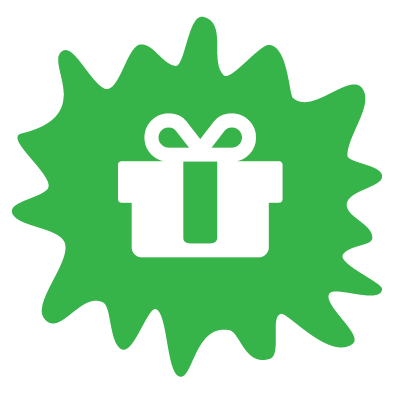
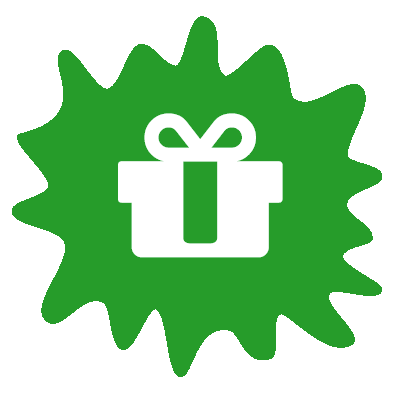
update style to reflect old color aesthetic

diff --git a/style.css b/style.css
@@ -607,11 +607,11 @@ html {
   box-sizing: border-box;
 }
 html a {
-  color: #57bfc4;
+  color: #0b9dff;
   text-decoration: none;
 }
 html a:visited {
-  color: #37b449;
+  color: #269C2A;
 }
 html a:focus {
   color: #ed7e22;
@@ -642,11 +642,11 @@ html a:hover, html a:focus {
 }
 
 .cpSalmon {
-  color: #e56066;
+  color: #ed1a35;
 }
 
 .cpYellow {
-  color: #ffce00;
+  color: #FFE600;
 }
 
 .layout {
@@ -682,6 +682,11 @@ body nav, body main, body footer, body header {
 
 .logoimg {
   height: 10rem;
+}
+
+.site-title img {
+  background-color: rgba(255, 255, 255, 0.75);
+  padding: .5rem;
 }
 
 footer .logoimg {
@@ -1088,32 +1093,32 @@ body footer {
 }
 
 .tribe-events-calendar th {
-  background: #57bfc4 !important;
+  background: #0b9dff !important;
 }
 .tribe-events-calendar th a {
-  color: #e56066;
+  color: #ed1a35;
 }
 .tribe-events-calendar th a:visited {
-  color: #57bfc4;
+  color: #0b9dff;
 }
 .tribe-events-calendar th a:focus {
   color: #0062a4;
 }
 .tribe-events-calendar th a:hover {
-  color: #37b449;
+  color: #269C2A;
 }
 .tribe-events-calendar th a:active {
   color: #825da3;
 }
 
 #tribe-events .tribe-events-button, .tribe-events-button {
-  background: #e56066 !important;
+  background: #ed1a35 !important;
   color: white;
 }
 
 @media screen and (max-width: 768px) {
   .tribe-events-sub-nav li a {
-    background: #37b449 !important;
+    background: #269C2A !important;
   }
 }
 @media screen and (min-width: 900px) {
@@ -1311,7 +1316,7 @@ body > footer ul {
 }
 
 body {
-  background-color: #57bfc4;
+  background-color: #0b9dff;
 }
 
 ul {
@@ -1418,7 +1423,7 @@ main {
 
 /*----------Homepage - Story Section----------- */
 .storyText h2 {
-  color: #57bfc4;
+  color: #0b9dff;
 }
 
 .storyText a:hover {
@@ -1483,7 +1488,7 @@ main {
 
 /*----------Homepage - Get Involved Section----------- */
 .getInvolved {
-  background: #ffeda3;
+  background: #fff6a3;
   margin-top: 1em;
   padding: .5em 1em 1em 1em;
 }
@@ -1557,11 +1562,11 @@ main {
 }
 
 .tribe-mini-calendar thead {
-  background: #57bfc4;
+  background: #0b9dff;
 }
 
 .tribe-mini-calendar-event .list-date {
-  background: #57bfc4 !important;
+  background: #0b9dff !important;
 }
 
 .galleryHome h2 {
@@ -1596,7 +1601,7 @@ main {
 }
 
 #mc_embed_signup.sponsorForm {
-  border: solid 1px #e56066;
+  border: solid 1px #ed1a35;
 }
 
 #mc_embed_signup.contactForm {
@@ -1609,7 +1614,7 @@ main {
 }
 
 #mc_embed_signup.sponsorForm h2 {
-  color: #e56066;
+  color: #ed1a35;
 }
 
 #mc_embed_signup.contactForm h2 {
@@ -1636,7 +1641,7 @@ main {
 }
 
 .sponsorButton {
-  background: #e56066;
+  background: #ed1a35;
   color: white;
   font-family: 'Graduate', sans-serif;
   border: none;
@@ -1651,7 +1656,7 @@ main {
 }
 
 .sponsorButton:hover {
-  background: #de343c;
+  background: #c50f27;
 }
 
 .contactButton {
@@ -1693,13 +1698,13 @@ input {
 }
 
 .giDonate {
-  border-top: solid 1em #37b449;
-  color: #37b449;
+  border-top: solid 1em #269C2A;
+  color: #269C2A;
 }
 
 .giSponsor {
-  border-top: solid 1em #e56066;
-  color: #e56066;
+  border-top: solid 1em #ed1a35;
+  color: #ed1a35;
 }
 
 .giText a:hover {
@@ -1716,7 +1721,7 @@ input {
 }
 
 .greenButton {
-  background: #37b449;
+  background: #269C2A;
   color: white;
   font-family: 'Graduate', sans-serif;
   border: none;
@@ -1730,11 +1735,11 @@ input {
 }
 
 .greenButton:hover {
-  background: #2b8d39;
+  background: #1c731f;
 }
 
 .pinkButton {
-  background: #e56066;
+  background: #ed1a35;
   color: white;
   font-family: 'Graduate', sans-serif;
   border: none;
@@ -1748,7 +1753,7 @@ input {
 }
 
 .pinkButton:hover {
-  background: #de343c;
+  background: #c50f27;
 }
 
 .headsecondary, .headsecondary .layout {
@@ -1780,7 +1785,7 @@ input {
   position: absolute;
   top: 100%;
   left: 0;
-  background: #57bfc4;
+  background: #0b9dff;
   padding: 0;
   padding-top: .5em;
   z-index: 9999;
@@ -1799,4 +1804,28 @@ input {
 }
 .headsecondary .layout div:nth-child(2) ul li:hover ul {
   display: block;
+}
+
+.qpp-style.CalebsPitchDOnate #plain {
+  border: 1px solid #269C2A !important;
+}
+
+.qpp-style.CalebsPitchDOnate h2 {
+  color: #269C2A !important;
+}
+
+.qpp-style.CalebsPitchDOnate p {
+  color: #269C2A !important;
+}
+
+.qpp-style.CalebsPitchDOnate #submit, .qpp-style.CalebsPitchDOnate #submit:hover {
+  background: #269C2A !important;
+}
+
+.qpp-style.CalebsPitchDOnate #couponsubmit, .qpp-style.CalebsPitchDOnate #couponsubmit:hover {
+  background: #269C2A !important;
+}
+
+.qpp-style.CalebsPitchDOnate div.rangeslider__fill {
+  background: #269C2A !important;
 }

diff --git a/components/sass/_variables.scss b/components/sass/_variables.scss
@@ -1,10 +1,15 @@
 //Caleb's Pitch Colors
-$cpYellow: #ffce00;
-$cpSalmon: #e56066;
+// $cpYellow: #ffce00;
+$cpYellow:#FFE600;
+$cpRed: #ed1a35;
+// $cpSalmon: #e56066;
+$cpSalmon:$cpRed;
 $cpOrange: #ed7e22;
 $cpBlue: #0062a4;
-$cpGreen: #37b449;
-$cpTeal: #57bfc4;
+// $cpGreen: #37b449;
+$cpGreen:#269C2A;
+// $cpTeal: #57bfc4;
+$cpTeal: lighten($cpBlue,20%);
 $cpPurple: #825da3;
 $cpWhite: #FFFFFF;
 
@@ -16,7 +21,7 @@ $cSecondary: $cpBlue;
 // $cBlack: #221F24;
 $cWhite: $cpWhite;
 // $cNote: #fcffad; 
-
+$cWhiteFade: rgba(255, 255, 255, 0.75); 
 
 //***************************
 // Where is everything else??

diff --git a/components/sass/_modules.scss b/components/sass/_modules.scss
@@ -546,3 +546,11 @@ main {
   }
 }
 
+//00000000000000000000000000000000000000000000
+.qpp-style.CalebsPitchDOnate #plain {border:1px solid #269C2A !important;}
+.qpp-style.CalebsPitchDOnate h2 {color: #269C2A !important;}.qpp-style.CalebsPitchDOnate p{color: #269C2A !important;}
+
+.qpp-style.CalebsPitchDOnate #submit, .qpp-style.CalebsPitchDOnate #submit:hover {background:#269C2A !important;}
+.qpp-style.CalebsPitchDOnate #couponsubmit, .qpp-style.CalebsPitchDOnate #couponsubmit:hover{background:#269C2A !important;}
+
+.qpp-style.CalebsPitchDOnate div.rangeslider__fill {background: #269C2A !important;}

diff --git a/components/sass/_layout.scss b/components/sass/_layout.scss
@@ -61,10 +61,24 @@ body nav,body main,body footer,body header{
     height: 10rem;
 }
 
+.site-title img{
+  background-color: $cWhiteFade;
+  padding:.5rem;
+
+}
+// .headsecondary{
+//   background-color:$cpBlue;
+// }
+// .siteheader, .sitefooter{
+//   background-color: lighten($cpBlue,30%) !important
+// }
+
+
 footer .logoimg{
     height: 13rem;
 
 }
+
 
 .siteheader{
   background: url("images/heroimagesm.jpg") no-repeat center center;

diff --git a/components/sass/_base.scss b/components/sass/_base.scss
@@ -57,14 +57,14 @@ $susy: (
 );
 
 
-$cpYellow: #ffce00;
-$cpSalmon: #e56066;
-$cpOrange: #ed7e22;
-$cpBlue: #0062a4;
-$cpGreen: #37b449;
-$cpTeal: #57bfc4;
-$cpPurple: #825da3;
-$cpWhite: #FFFFFF;
+// $cpYellow: #ffce00;
+// $cpSalmon: #e56066;
+// $cpOrange: #ed7e22;
+// $cpBlue: #0062a4;
+// $cpGreen: #37b449;
+// $cpTeal: #57bfc4;
+// $cpPurple: #825da3;
+// $cpWhite: #FFFFFF;
 
 .cpBlue{
   color:$cpBlue;

diff --git a/footer.php b/footer.php
@@ -39,7 +39,7 @@
             <p>&copy; <?php echo date("Y") ?> Caleb's Pitch</p> 
 
             <a href="<?php $url = home_url( '/' ); echo $url; ?>">
-              <img class="logoimg" alt="<?php echo get_bloginfo('name');?>" src="<?php echo get_stylesheet_directory_uri(); ?>/images/logo.svg">
+              <img class="logoimg" alt="<?php echo get_bloginfo('name');?>" src="<?php echo get_stylesheet_directory_uri(); ?>/images/miniLogo2.png">
             </a> 
         
         </div> <!-- logo div -->

diff --git a/header.php b/header.php
@@ -15,7 +15,7 @@
 				<div class="headprimary">
 					<h1 class="site-title">
 						<a href="<?php $url = home_url( '/' ); echo $url; ?>">
-							<img class="logoimg" alt="<?php echo get_bloginfo('name');?>" src="<?php echo get_stylesheet_directory_uri(); ?>/images/logo.svg">
+							<img class="logoimg" alt="<?php echo get_bloginfo('name');?>" src="<?php echo get_stylesheet_directory_uri(); ?>/images/miniLogo2.png">
 						</a>
 					</h1>
 <!-- 					<h2>
